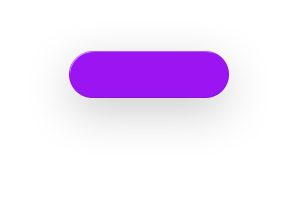
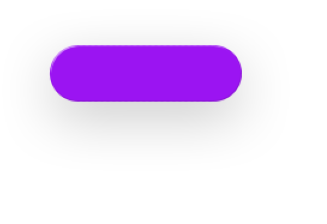
submit a pitch -> dm us your pitch

Changed region(s): [[0.15, 0.18, 0.78, 0.51]]

diff --git a/index.html b/index.html
@@ -70,8 +70,8 @@
                     <div>
                         <form name="submitPitch" action="" method="POST" class="formPitchSubmit">
                             <div class="submitPitchButton">
-                                <a href="https://forms.gle/JDSQ5vZKt2xB3CdN7" target="_blank">
-                                <p>SUBMIT A PITCH</p>
+                                <a href="https://www.instagram.com/bruinentrepreneurs/" target="_blank">
+                                    <p>DM US YOUR PITCH</p>
                                 </a>
                             </div>
                         </form>
@@ -123,7 +123,7 @@
                             <p class="workHeading">How does it work?</p>
                         </div>
                         <div class="workTextHolder">
-                            <p class="workText">Submit a short 30-second pitch video of your idea here, or find us on Bruin Walk to pitch your idea live. Top eight pitches will get to present their idea in front of VCs on the final demo day and stand a chance to win a monetary prize.</p>
+                            <p class="workText">DM us a short 30-second pitch video of your idea to our Instagram, or find us on Bruin Walk to pitch your idea live. Top eight pitches will get to present their idea in front of VCs on the final demo day and stand a chance to win a monetary prize.</p>
                         </div>
                         <div class="readMoreHolder">
                             <a href="#" class="workReadMore" style="display: none;">READ MORE <span><img src="images/readMoreImage.png" title="Read More" alt="Read More" /></span></a>
@@ -171,7 +171,7 @@
                     <div class="col-md-6 col-sm-6 col-xs-12 faqIndividualContainer faq45Percent noMarginRight">
                         <img src="images/5.png" title="I just want a free shirt, is this OK?" alt="I just want a free shirt, is this OK?" />
                         <p class="faqHeading">Where do I apply?</p>
-                        <p class="faqDesc">You can apply through this website or by finding us on Bruin Walk to pitch your idea live. Click on the “Submit a Pitch” button and fill in the form. For any more queries, reach out to us through our Facebook page or write your query in the contact section below.</p>
+                        <p class="faqDesc">You can apply through this website or by finding us on Bruin Walk to pitch your idea live. Click on the “DM US YOUR PITCH” button to go to our Instagram and send in your pitch and email. For any more queries, reach out to us through our Facebook page or write your query in the contact section below.</p>
                     </div>
                 </div>
             </div>

diff --git a/css/custom.css b/css/custom.css
@@ -140,7 +140,7 @@ header {
     margin-top: 50px;
     margin-left: 68px;
     margin-bottom: 0px;
-    padding: 15px 22px 12px 25px;
+    padding: 12px 22px 10px 10px;
     float: left;
 }
 
@@ -598,7 +598,7 @@ header {
 	margin-top: 8px;
 	margin-left: 18px;
 	margin-bottom: 0px;
-	padding: 18px 37px 16px 37px;
+	padding: 18px 37px 16px 27px;
 	float: left;
     }
     .formPitchSubmit { margin-left: 46px; margin-top: 0px; }
